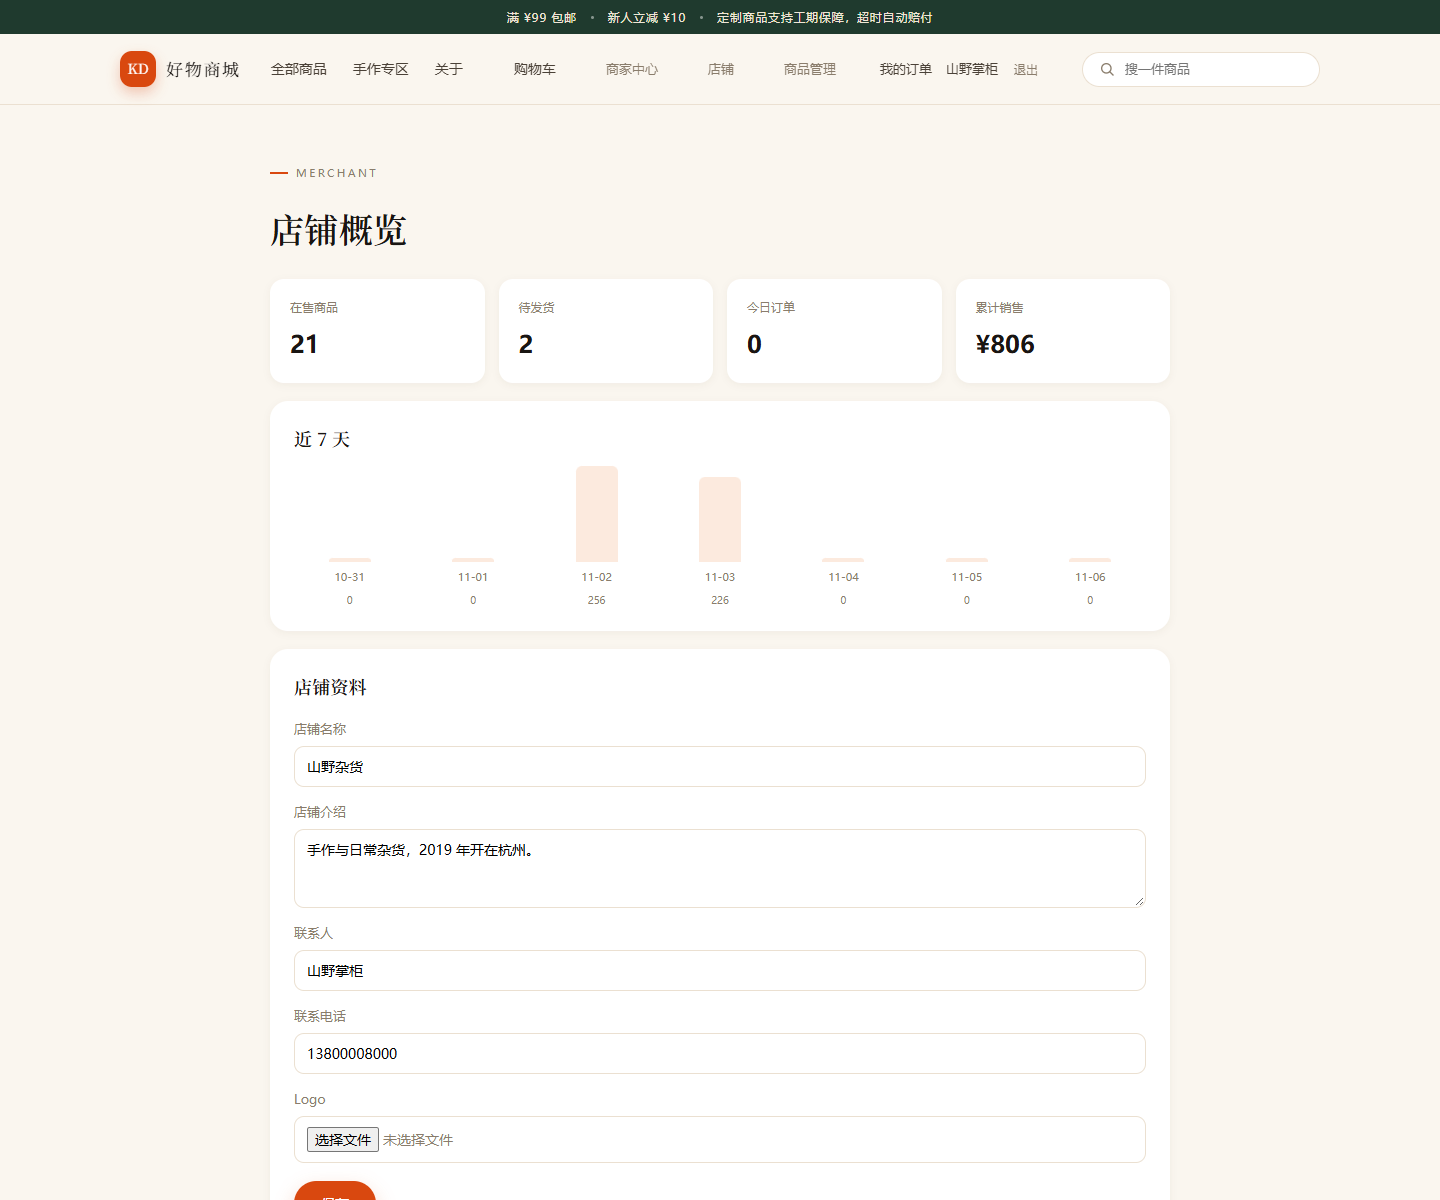
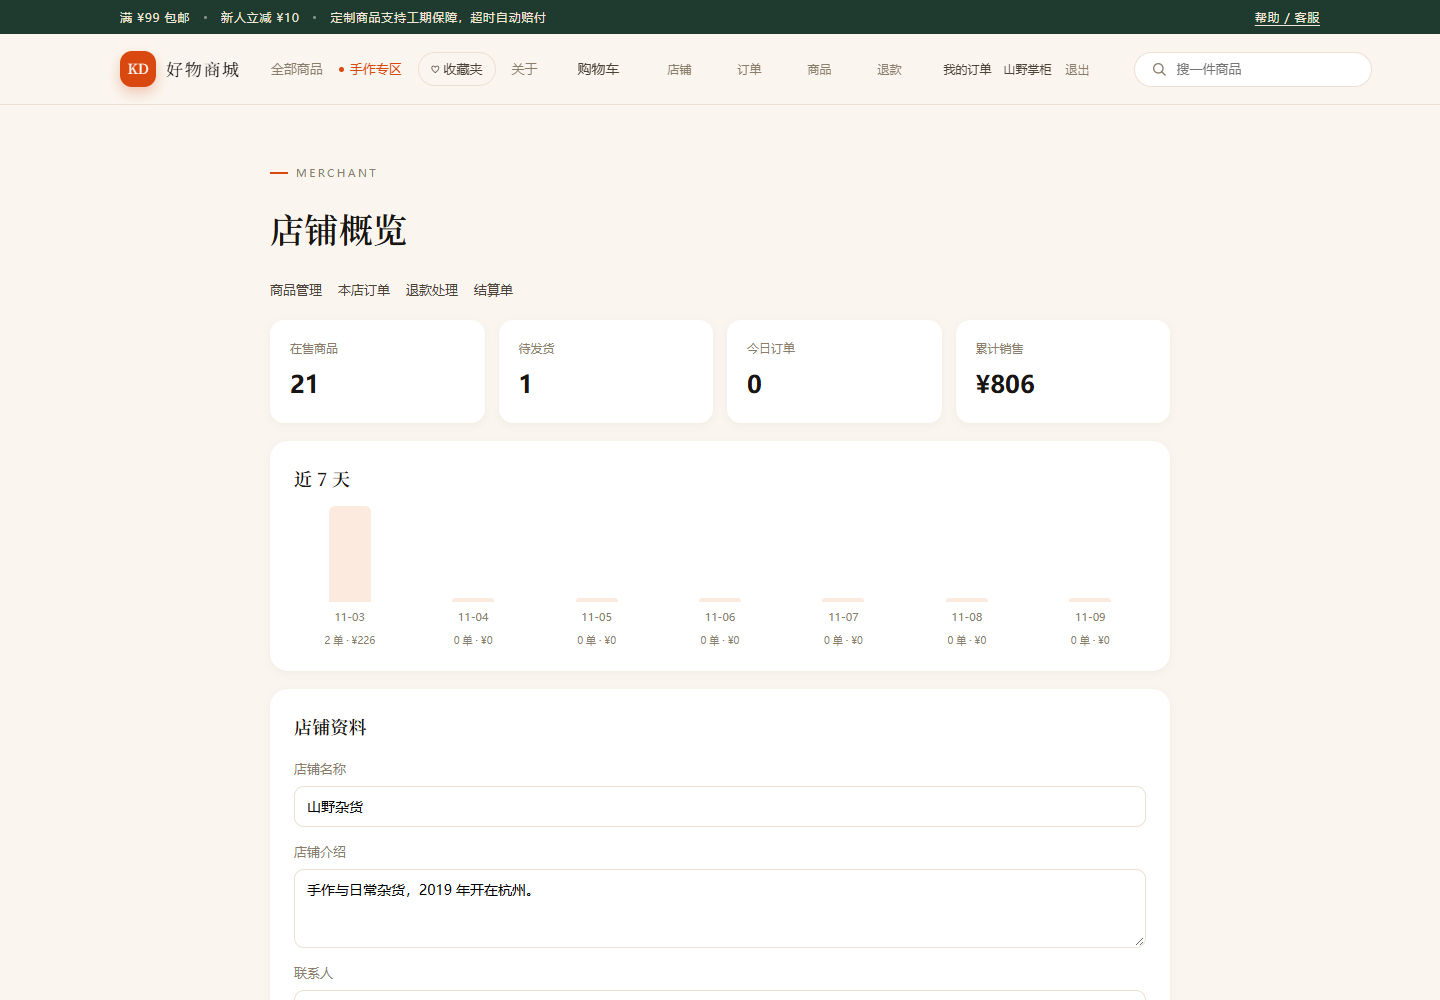
fix(ui): 商品价格按元、趋势图单位、订单退款全部 Tab (#19) (#92)
商家商品编辑价格改元输入并换算为分；看板趋势显示单数与金额；商家订单与退款增加全部筛选。

diff --git a/frontend/src/views/merchant/ProductsView.vue b/frontend/src/views/merchant/ProductsView.vue
@@ -53,7 +53,7 @@ function openEdit(item: MerchantProduct) {
     name: item.name,
     subtitle: item.subtitle ?? '',
     categoryId: item.categoryId,
-    price: item.priceMin,
+    price: item.priceMin / 100,
     stock: item.stock,
     mainImage: item.mainImage ?? '',
   }
@@ -77,7 +77,7 @@ async function onFile(event: Event) {
 }
 
 async function save() {
-  if (!form.value.name.trim() || !form.value.categoryId || form.value.price <= 0) {
+  if (!form.value.name.trim() || !form.value.categoryId || !(form.value.price > 0)) {
     ElMessage.warning('请填写名称、类目和价格')
     return
   }
@@ -87,7 +87,7 @@ async function save() {
       name: form.value.name.trim(),
       subtitle: form.value.subtitle || undefined,
       categoryId: form.value.categoryId,
-      price: form.value.price,
+      price: Math.round(form.value.price * 100),
       stock: form.value.stock,
       mainImage: form.value.mainImage || undefined,
     }
@@ -162,7 +162,7 @@ async function toggle(item: MerchantProduct) {
           </select>
         </label>
         <div class="row">
-          <label>价格（分）<input v-model.number="form.price" type="number" min="1" /></label>
+          <label>价格（元）<input v-model.number="form.price" type="number" min="0.01" step="0.01" /></label>
           <label>库存<input v-model.number="form.stock" type="number" min="0" /></label>
         </div>
         <label>主图

diff --git a/frontend/src/views/merchant/ShopView.vue b/frontend/src/views/merchant/ShopView.vue
@@ -95,7 +95,7 @@ async function save() {
           <div v-for="point in dashboard.trend" :key="point.date" class="bar">
             <div class="bar__fill" :style="{ height: Math.max(4, (point.amount / maxAmount) * 96) + 'px' }" />
             <span class="bar__label">{{ point.date.slice(5) }}</span>
-            <span class="bar__value">{{ yuan(point.amount) }}</span>
+            <span class="bar__value">{{ point.orders }} 单 · ¥{{ yuan(point.amount) }}</span>
           </div>
         </div>
       </section>

diff --git a/frontend/src/views/admin/DashboardView.vue b/frontend/src/views/admin/DashboardView.vue
@@ -60,7 +60,7 @@ onMounted(async () => {
           <div v-for="point in data.trend" :key="point.date" class="bar">
             <div class="bar__fill" :style="{ height: Math.max(4, (point.amount / maxAmount) * 110) + 'px' }" />
             <span class="bar__label">{{ point.date.slice(5) }}</span>
-            <span class="bar__value">{{ yuan(point.amount) }}</span>
+            <span class="bar__value">{{ point.orders }} 单 · ¥{{ yuan(point.amount) }}</span>
           </div>
         </div>
       </section>

diff --git a/frontend/src/views/merchant/OrdersView.vue b/frontend/src/views/merchant/OrdersView.vue
@@ -15,6 +15,7 @@ const submitting = ref(false)
 const carriers = ['顺丰速运', '中通快递', '圆通速递', '韵达快递', '京东物流']
 
 const tabs = [
+  { value: '', label: '全部' },
   { value: 'PENDING_SHIPMENT', label: '待发货' },
   { value: 'SHIPPED', label: '已发货' },
   { value: 'COMPLETED', label: '已完成' },

diff --git a/frontend/src/views/merchant/RefundsView.vue b/frontend/src/views/merchant/RefundsView.vue
@@ -10,6 +10,7 @@ const loading = ref(true)
 const busy = ref(false)
 
 const tabs = [
+  { value: '', label: '全部' },
   { value: 'PENDING', label: '待处理' },
   { value: 'REFUNDED', label: '已退款' },
   { value: 'REJECTED', label: '已驳回' },
